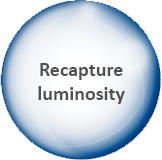
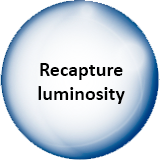
Changed bubbles, fixed distance button

Changed region(s): [[0.2188, 0.375, 0.7812, 0.5], [0.2188, 0.5312, 0.7812, 0.6562]]

diff --git a/css/style.css b/css/style.css
@@ -313,9 +313,12 @@ header {
     color: #505050;
     left: 0;
     top: 0;
+    background-color: rgba(0,0,0,0);
     font-weight: bold;
     background-size: contain;
     background-repeat: no-repeat;
+    background-position: -2px -2px;
+    background-size: 102%;
     border-radius: 50%;
     box-shadow: -12px 19px 82px -19px rgba(0, 0, 0, 0.75);
     z-index: 1;
@@ -531,19 +534,24 @@ header {
 .discover-btn {
     font-size: 14px;
     float: right;
-    margin: 30px 30px;
-    padding: 12px;
+    margin: 50px 30px 30px 0px;
+    padding: 12px 20px;
     text-transform: uppercase;
     font-weight: bold;
     color: #15e2a0;
     text-decoration: none;
-    background-color: #fafafa;
+    background-color: #ffffff;
     border-radius: 5px;
     -webkit-box-shadow: 0px 3px 5px 1px rgba(0, 0, 0, 0.19);
     -moz-box-shadow: 0px 3px 5px 1px rgba(0, 0, 0, 0.19);
     box-shadow: 0px 3px 5px 1px rgba(0, 0, 0, 0.19);
     outline: none;
 }
+
+.discover-btn i {
+    padding-right: 10px;
+}
+
 .slider-next-btn, .slider-prev-btn {
     font-size: 20px;
     color: #cfcfcf;
